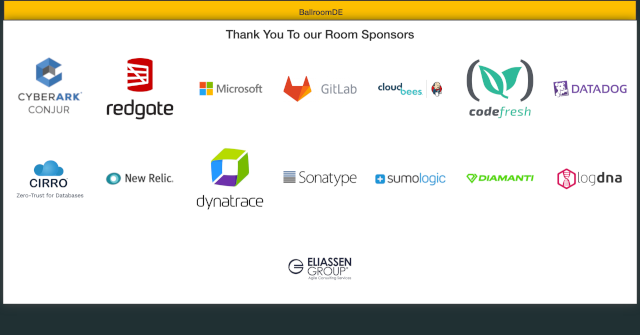
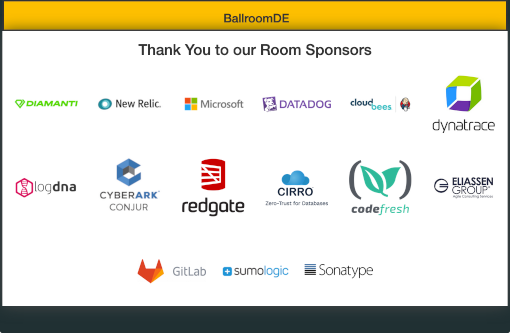
room view optimized for 1024x768

diff --git a/server/room.php b/server/room.php
@@ -447,9 +447,9 @@ asort($order, SORT_NUMERIC);
                         }
                         ?>
                     </a>
-                    <div class="media-body" style="vertical-align: middle; height: 850px; margin: 30px">
-                        <h1 class="media-heading" style="margin: 20px;"><?php echo $data[$key][3]; ?></h2>
-                        <h2 class="media-heading" style="margin: 20px;"><?php echo $data[$key][2]; ?></h1>
+                    <div class="media-body" style="vertical-align: middle; height: 525px; margin: 15px">
+                        <h1 class="media-heading" style="margin: 20px;"><?php echo $data[$key][3]; ?></h1>
+                        <h2 class="media-heading" style="margin: 20px;"><?php echo $data[$key][2]; ?></h2>
                         <h3 style="margin: 20px;"><?php echo $data[$key][7]; ?></h3>
                         <hr/>
 					    <?php
@@ -486,15 +486,15 @@ asort($order, SORT_NUMERIC);
                 <div class="media">
                     <div class="row">
                         <div class="col-md-12" style="text-align: center; vertical-align: middle;">
-                            <div class="well" style="height: 525px; vertical-align: middle;">
-                            <div class="row" style="margin: 30px">&nbsp;</div>
-                                <img src="images/WiFi-Sign.png">
+                            <div class="well" style="height: 300px; vertical-align: middle;">
+                            <div class="row" style="margin: 5px">&nbsp;</div>
+                                <img src="images/WiFi-Sign.png" width="487" height="186">
                             </div>
-                            <div class="row" style="margin: 30px">
-                                <h1 style='text-align: center;'>Thank You to our Diamond and Platinum Sponsors</h1>
+                            <div class="row" style="margin: 15px">
+                                <h2 style='text-align: center;'>Thank You to our Diamond and Platinum Sponsors</h2>
                                 <?php
                                 foreach ($diamond_platinum_sponsors as $sponsor) {
-                                    echo "<img src='images/sponsors/" . $sponsors[$sponsor] . "' style='margin: 25px';>";
+                                    echo "<img src='images/sponsors/" . $sponsors[$sponsor] . "' width='165' height='165' style='margin: 15px';>";
                                 }
                                 ?>
                             </div>
@@ -506,11 +506,11 @@ asort($order, SORT_NUMERIC);
             <?php if (count($sponsors_for_room) > 0) { ?>
             <div class="item">
                 <div class="media">
-                    <div class="row" style="text-align: center; vertical-align: middle; height: 850px;">
-                        <h1 style='text-align: center;'>Thank You To our <?php echo "$sponsor_class "; if (count($sponsors_for_room) > 1) { echo "Sponsors"; } else { echo "Sponsor"; } ?></h1>
+                    <div class="row" style="text-align: center; vertical-align: middle; height: 550px;">
+                        <h2 style='text-align: center;'>Thank You to our <?php echo "$sponsor_class "; if (count($sponsors_for_room) > 1) { echo "Sponsors"; } else { echo "Sponsor"; } ?></h2>
                         <?php
                         foreach ($sponsors_for_room as $sponsor) {
-                            echo "<img src='images/sponsors/" . $sponsors[$sponsor] . "' style='margin: 25px';>";
+                            echo "<img src='images/sponsors/" . $sponsors[$sponsor] . "' height='137' width='137' style='margin: 15px';>";
                         }
                         ?>
                     </div>

diff --git a/README.md b/README.md
@@ -31,15 +31,7 @@ example: `http://signs.scale.lan/`
 
 The index page call be called with a room argument to display a room specific view that will display information relevant to that room.
 
-examples: 
-* `http://signs.scale.lan/?room=ballroom-de`
-* `http://signs.scale.lan/?room=room-101`
-
-![Room View Session](./.README/room_view_session.png)
-
-![Room View Wifi](./.README/room_view_wifi.png)
-
-![Room View Sponsors](./.README/room_view_sponsors.png)
+Optimized for viewing at `1024x768` using one of the following room values:
 
 * ballroom-a
 * ballroom-b
@@ -57,6 +49,16 @@ examples:
 * room-209
 * room-211
 * room-212
+
+examples:
+* `http://signs.scale.lan/?room=ballroom-de`
+* `http://signs.scale.lan/?room=room-101`
+
+![Room View Session](./.README/room_view_session.png)
+
+![Room View Wifi](./.README/room_view_wifi.png)
+
+![Room View Sponsors](./.README/room_view_sponsors.png)
 
 #### Development
 
